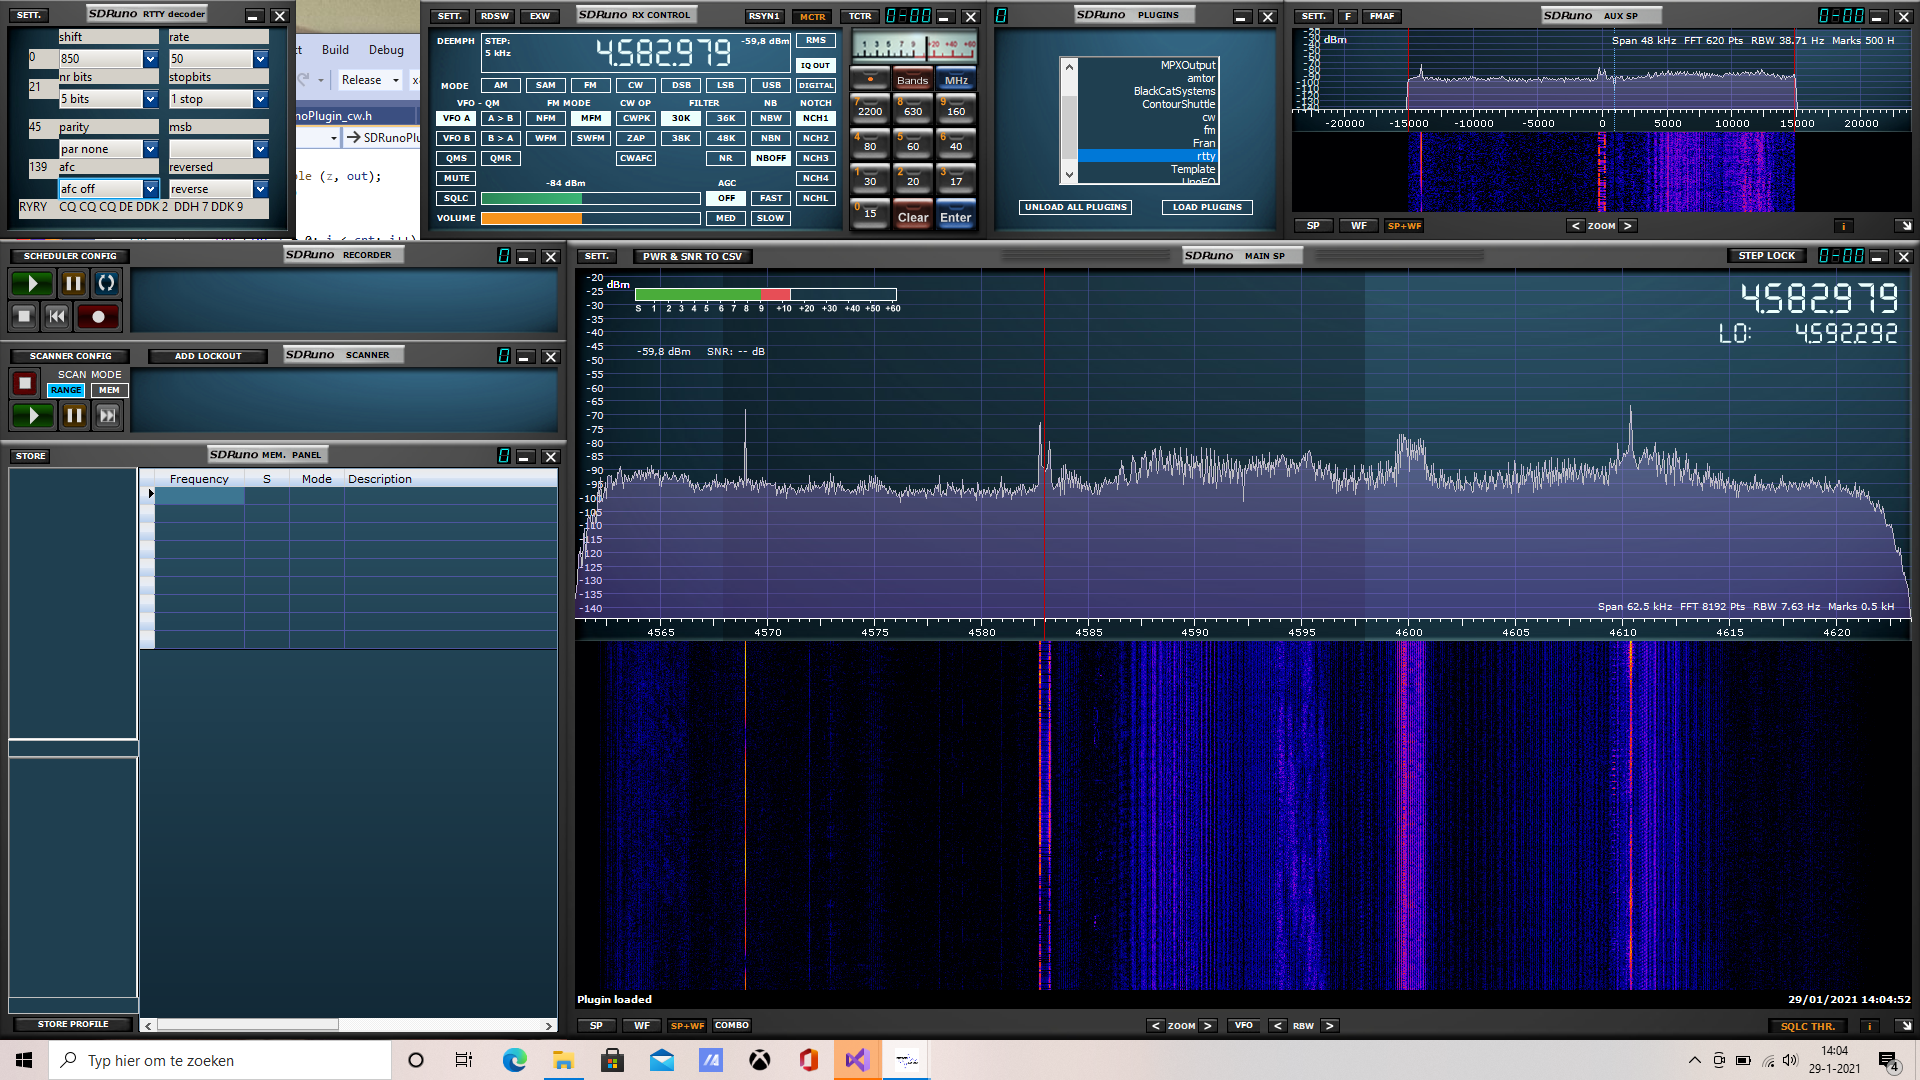
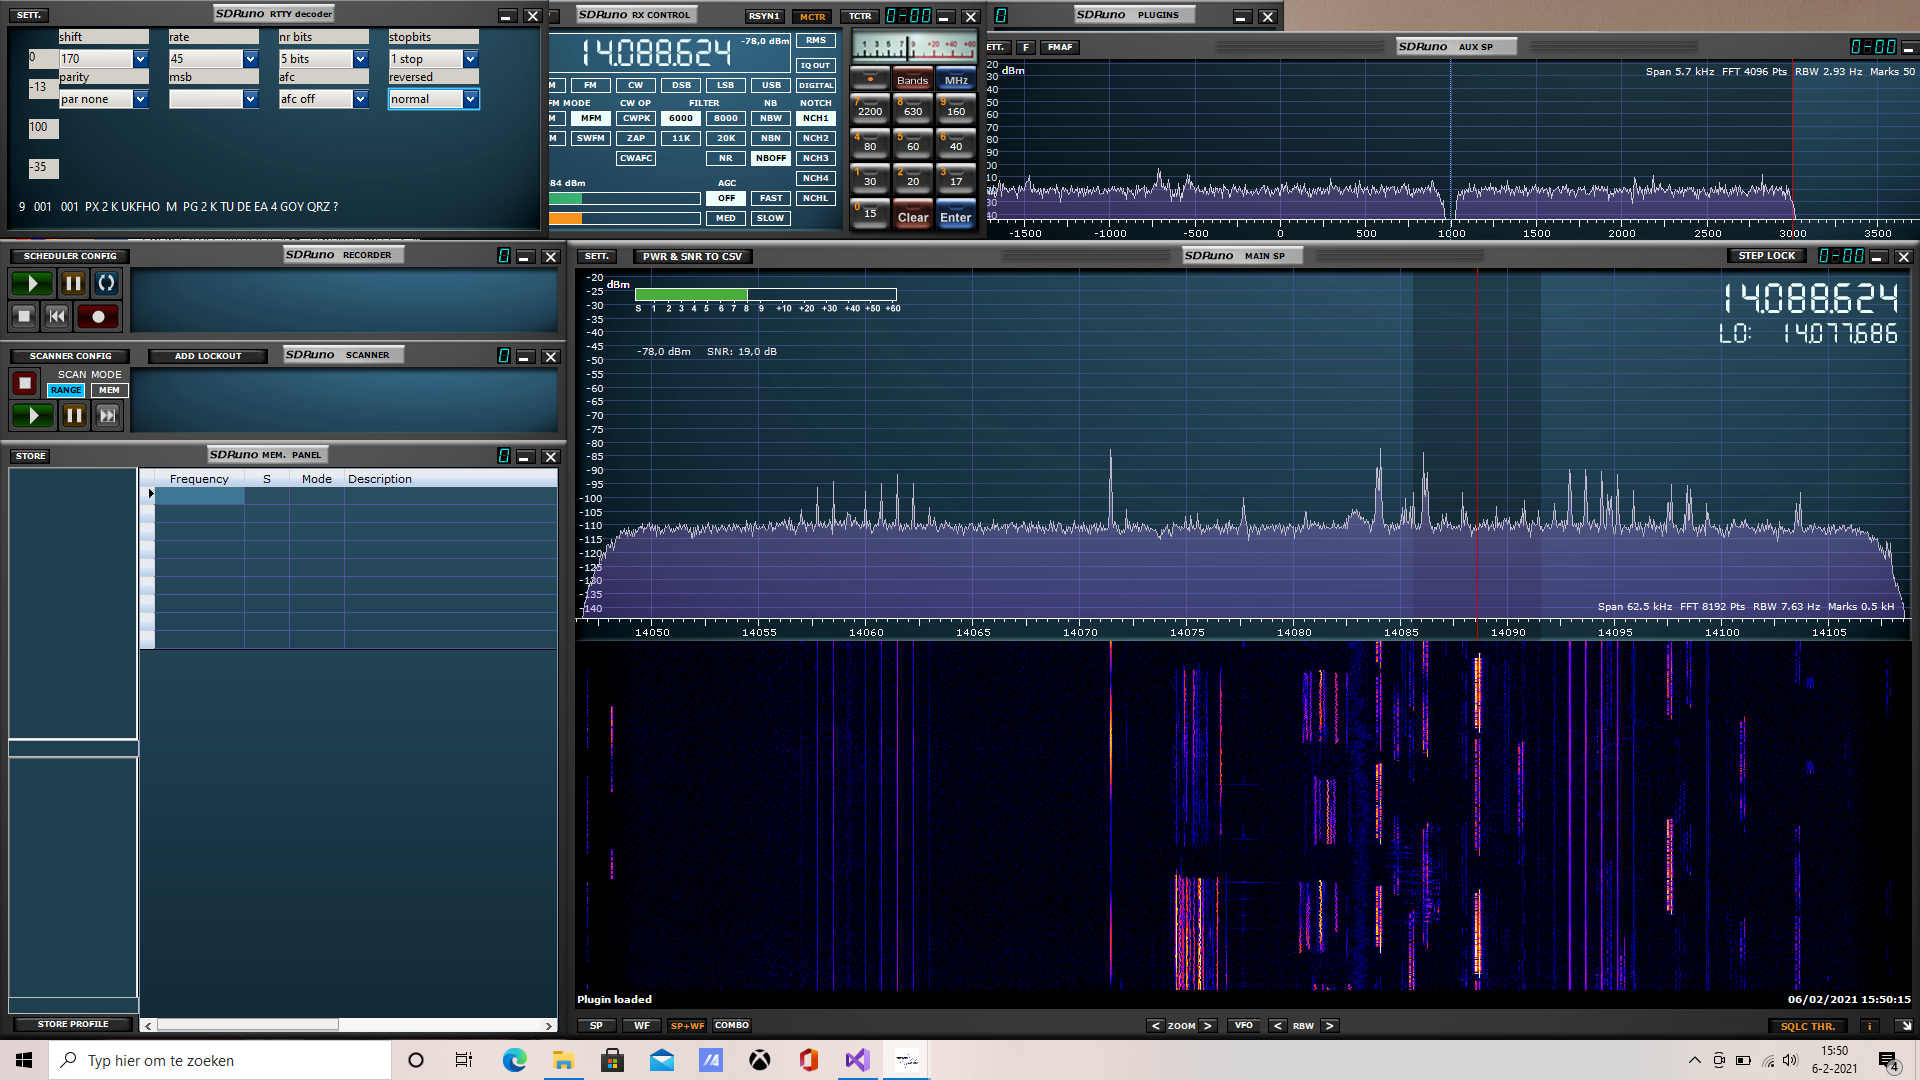
changed picture

diff --git a/SDRunoPlugin_rttyForm.h b/SDRunoPlugin_rttyForm.h
@@ -22,7 +22,8 @@
 #define sideBorderWidth (8)
 
 // TODO: Change these numbers to the height and width of your form
-#define formWidth (297)
+//#define formWidth (297)
+#define formWidth (550)
 #define formHeight (240)
 
 class SDRunoPlugin_rttyUi;
@@ -85,30 +86,31 @@ private:
 
 //
 //	then the selectors
-	nana::label  xx1           { *this, nana::rectangle(60, 30, 100, 15) };
-	nana::combox widthSelector {*this, nana::rectangle (60, 50, 100, 20) };
+	nana::label  xx1           { *this, nana::rectangle(60, 30, 90, 15) };
+	nana::combox widthSelector {*this, nana::rectangle (60, 50, 90, 20) };
 
-	nana::label  xx2           { *this, nana::rectangle(170, 30, 100, 15) };
-	nana::combox rateSelector  {*this, nana::rectangle (170, 50, 100, 20) };
+	nana::label  xx2           { *this, nana::rectangle(170, 30, 90, 15) };
+	nana::combox rateSelector  {*this, nana::rectangle (170, 50, 90, 20) };
 
-	nana::label  xx3           { *this, nana::rectangle(60, 70, 100,  15) };
-	nana::combox bitSelector   {*this, nana::rectangle (60, 90, 100, 20)};
+	nana::label  xx3           { *this, nana::rectangle(280, 30, 90,  15) };
+	nana::combox bitSelector   {*this, nana::rectangle (280, 50, 90, 20)};
 
-	nana::label  xx4           {*this,nana::rectangle  (170, 70, 100, 15) }; 
-	nana::combox stopbitsSelector {*this, nana::rectangle (170, 90, 100, 20) };
-	nana::label xx5            { *this, nana::rectangle(60, 120, 100, 15) };
-	nana::combox paritySelector {*this, nana::rectangle (60, 140, 100, 20) };
+	nana::label  xx4           {*this,nana::rectangle  (390, 30, 90, 15) }; 
+	nana::combox stopbitsSelector {*this, nana::rectangle (390, 50, 90, 20) };
 
-	nana::label xx6           {*this, nana::rectangle (170, 120, 100, 15) };
-	nana::combox msbSelector  {*this, nana::rectangle (170, 140, 100, 20) };
+	nana::label xx5            { *this, nana::rectangle(60, 70, 90, 15) };
+	nana::combox paritySelector {*this, nana::rectangle (60, 90, 90, 20) };
 
-	nana::label xx7           {*this, nana::rectangle (60,  160, 100, 15) };
-	nana::combox afcSelector  {*this, nana::rectangle (60,  180, 100, 20) };
+	nana::label xx6           {*this, nana::rectangle (170, 70, 90, 15) };
+	nana::combox msbSelector  {*this, nana::rectangle (170, 90, 90, 20) };
 
-	nana::label xx8           {*this, nana::rectangle (170, 160, 100, 15) };
-	nana::combox normalSelector {*this, nana::rectangle (170, 180, 100, 20)};
+	nana::label xx7           {*this, nana::rectangle (280,  70, 90, 15) };
+	nana::combox afcSelector  {*this, nana::rectangle (280,  90, 90, 20) };
 
-	nana::label rttyText {*this, nana::rectangle (20, 200, 250, 20) };
+	nana::label xx8           {*this, nana::rectangle (390, 70, 90, 15) };
+	nana::combox normalSelector {*this, nana::rectangle (390, 90, 90, 20)};
+
+	nana::label rttyText {*this, nana::rectangle (20, 200, 450, 20) };
 	SDRunoPlugin_rttyUi & m_parent;
 	IUnoPluginController & m_controller;
 };

diff --git a/SDRunoPlugin_rtty.cpp b/SDRunoPlugin_rtty.cpp
@@ -713,8 +713,13 @@ void	SDRunoPlugin_rtty::rtty_addText			(char c)  {
 	if (c < ' ')
 	   c = ' ';
 	textLine. append (1, c);
-	if (textLine. length () > 42)
+	if (textLine. length () > 60)
 	   textLine. erase (0, 1);
 	m_form. set_rttyText (textLine);
 }
+  jjuuuuuuuuuuuuuuuuuuuuuuuuuuuuuuuuuuuuuuuuuuuuuuuuuuuuuuuuuuuuuuuuuuuuuuuuuuuuuuuuuuuuuuuuuuuuuuuuuuuuuuuuuuuuuuuuuuuuuuuuuuuuuuuuuuuuuuuuuuuuuuuuuuuuuuuuuuuuuuuuuuuuuuuuuuuuuuuuuuuuuuuuuuuuuuuuuuuuuuuuuuuuuuuuuuuuuuuuuuuuuuuuuuuuuuuuuuuuuuuuuuuuuuuuuuuuuuuuuuuuuuuuuuuuuuuuuuuuuuuuuuuuuuuuuuuuuuuuuuuuuuuuuuuuuuuuuuuuuuuuuuuuuuuuuuuuuu
 
+
+
+
+	  `111111111111111111111111111111111111111111111111111111111111111111111111111111111111111111111111111111111111111111111111111111111111111111111111111111111111111111111111111111111111111111111111111111111111111111111111111111111111111111111111111111111111111111111111111111111111111111111111111111111111111111111111111111111111111111111111111111111111111111111111111111111111111111111111111111111111111111111111111111111111111111111111111111111111111111111111111111111111111111111111111111111111111111111111111111111111111111111111111111111111111111111111111111111111111111111111111111111111111111111111111111111111111111111111111111111111111111111111111111111111111111111111111111111111111111111111111111111111111111111111111111111111111111111111111111111111111111111111111111111111111111111111111111111111111111111111111111111111111111111111111111111111111111111111111111111111111111111111111111111111111111111111111111111111111111111111111111111111111111111111111111111111111111111111111111111111111111111111111111111111111111111111111111111111111111111111111111111111111111111111111111111111111111111111111111111111111111111111111111111111111

diff --git a/README.md b/README.md
@@ -5,6 +5,33 @@ Simple rtty decoder plugin
 
 ![overview](/rtty-example.png?raw=true)
 
+-----------------------------------------------------------------------
+RTTY
+-----------------------------------------------------------------------
+
+RTTY can be heard (a.o) around 14080 Khz. The signal is a phase shift keying
+signal, a signal a mark and a space signal.
+While on e.g. 4583 these is a signal with nautical information with
+a shift of 850 Hz between the mark and the space signal.
+
+Used in amateur bands, the standard for the shift is 170 Hz - usually
+with a baudrate of 45.
+
+As seen, the plugin has a number of comboboxes with which shift, baudrate etc
+can be set, default settings are for the signal aas appearing in the
+amateur bands.
+
+The plugin assumes an inputrate of 2000000 / 32 (i.e. 62.5 KHz),
+on the spectrum display an rtty signal is visible, tuning is, however,
+difficult. Most amateur transmissions are very short, and on the spectrum 
+display one really cannot see whether or not the tuned frequency is
+more or less in the middle between mark and space.
+
+Here, as well as for other signals with a small footprint - the additional
+spectrum display, showing only a fraction of the band, is very useful,
+especially when the zoom function is used.
+
+
 
 
 
